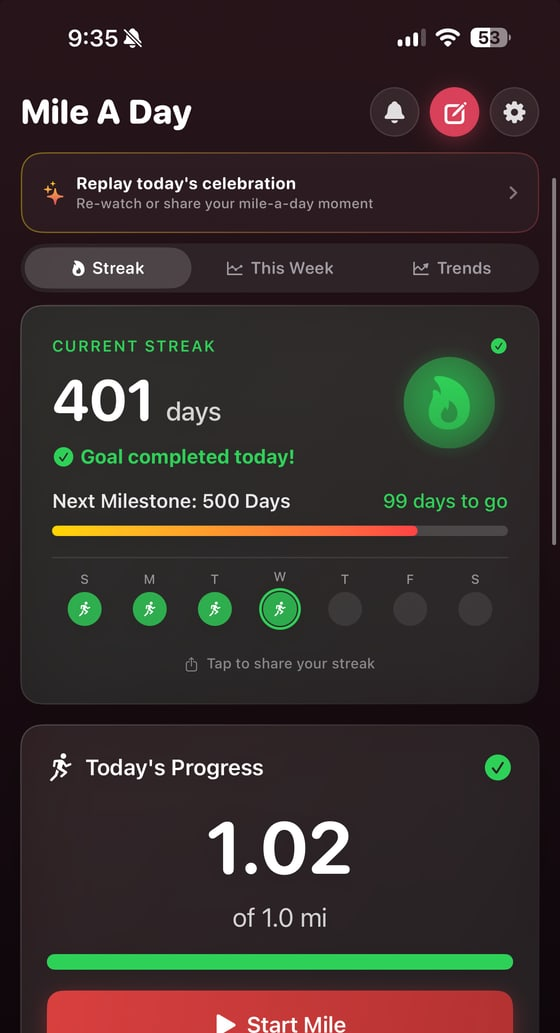
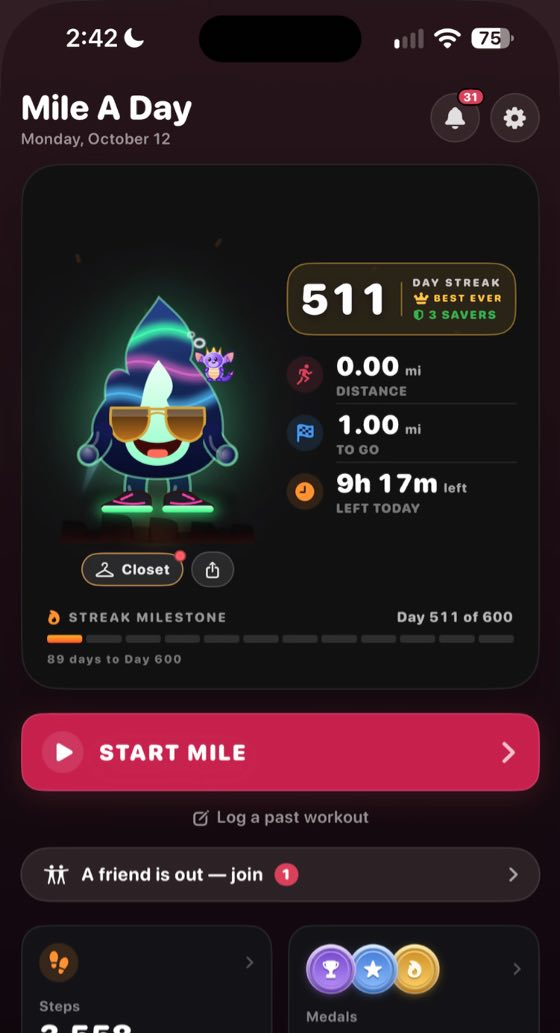
Website: real app screenshots for What's New and the hero
Captured from the live app via iPhone Mirroring (776×1680, the mirror's
largest window, cropped to the bare screen). Fills 10 What's New slots,
replaces the hero dashboard (now a 511-day streak) and regenerates the
link-preview crop app/_og/dashboard.jpg from it. Image dimensions in the
hero and What's New markup follow the new captures.

"Your Flamey, on your walks" shows friends' map-less walk cards with Flamey
cheering, so its caption/blurb now say that rather than promising Route Art.

diff --git a/website/lib/releases.ts b/website/lib/releases.ts
@@ -458,7 +458,7 @@ export type ReleaseShot = {
   caption: string;
   blurb: string;
   /**
-   * A REAL full-screen iPhone capture (1290×2796) in
+   * A REAL full-screen iPhone capture (776×1680, via iPhone Mirroring) in
    * public/images/whats-new/<version>/, or null until one is taken. A null
    * shot is never drawn — the feature just stays in the list — so the site
    * never shows a mock-up in place of the app.
@@ -471,31 +471,31 @@ export type ReleaseShot = {
 // three per release; capture them from the app on that version's screens.
 export const RELEASE_SHOWCASE: Record<string, ReleaseShot[]> = {
   "1.2.07": [
-    { title: "Flamey's Closet", caption: "Flamey's Closet", blurb: "Every medal unlocks something for Flamey to wear. Name him, dress him, save the outfits you love.", screenshot: null },
-    { title: "Your Flamey, on your walks", caption: "Your walks, drawn", blurb: "Route Art on the feed, Flamey running beside you, and a Flyover of the whole walk.", screenshot: null },
-    { title: "Weekly Recap", caption: "Weekly Recap", blurb: "Every Saturday evening: your miles, your best day, and how your friends did.", screenshot: null },
+    { title: "Flamey's Closet", caption: "Flamey's Closet", blurb: "Every medal unlocks something for Flamey to wear. Name him, dress him, save the outfits you love.", screenshot: "/images/whats-new/1.2.07/flameys-closet.png" },
+    { title: "Your Flamey, on your walks", caption: "Flamey on the feed", blurb: "Friends on Fun bring their Flamey along, cheering them over the line on every walk.", screenshot: "/images/whats-new/1.2.07/your-flamey-on-your-walks.png" },
+    { title: "Weekly Recap", caption: "Weekly Recap", blurb: "Every Saturday evening: your miles, your best day, and how your friends did.", screenshot: "/images/whats-new/1.2.07/weekly-recap.png" },
   ],
   "1.2.05": [
     { title: "Buddy Walks", caption: "Buddy Walks", blurb: "Walk together from anywhere, counting down to the same second.", screenshot: null },
     { title: "Route Art", caption: "Route Art", blurb: "Your route, drawn and colored by the time of day you went out.", screenshot: null },
-    { title: "Compete, rebuilt", caption: "Compete, rebuilt", blurb: "What's live, what you've won, and how every challenge was completed.", screenshot: null },
+    { title: "Compete, rebuilt", caption: "Compete, rebuilt", blurb: "What's live, what you've won, and how every challenge was completed.", screenshot: "/images/whats-new/1.2.05/compete-rebuilt.png" },
   ],
   "1.2.03": [
-    { title: "A brand-new Dashboard", caption: "A new Dashboard", blurb: "Your mile, your streak and your tokens in one view.", screenshot: null },
-    { title: "Streak Tokens", caption: "Streak Tokens", blurb: "Backup for the days life gets in the way.", screenshot: null },
+    { title: "A brand-new Dashboard", caption: "A new Dashboard", blurb: "Your mile, your streak and your tokens in one view.", screenshot: "/images/whats-new/1.2.03/a-brand-new-dashboard.png" },
+    { title: "Streak Tokens", caption: "Streak Tokens", blurb: "Backup for the days life gets in the way.", screenshot: "/images/whats-new/1.2.03/streak-tokens.png" },
     { title: "Comments, mentions & collabs", caption: "Comments & collabs", blurb: "Talk under a walk, tag a friend, post it together.", screenshot: null },
   ],
   "1.2.0": [
-    { title: "Feed & Stories", caption: "Feed & Stories", blurb: "See every friend's mile as it happens.", screenshot: null },
-    { title: "3D Medals", caption: "3D Medals", blurb: "Medals you can spin in your hand.", screenshot: null },
+    { title: "Feed & Stories", caption: "Feed & Stories", blurb: "See every friend's mile as it happens.", screenshot: "/images/whats-new/1.2.0/feed-and-stories.png" },
+    { title: "3D Medals", caption: "3D Medals", blurb: "Medals you can spin in your hand.", screenshot: "/images/whats-new/1.2.0/3d-medals.png" },
     { title: "Head-to-Head", caption: "Head-to-Head", blurb: "Take on one friend, mile for mile.", screenshot: null },
   ],
   "1.1.0": [
     { title: "Richer workout details", caption: "Workout details", blurb: "Splits, pace and heart rate for every mile.", screenshot: null },
-    { title: "Friends, organized", caption: "Friends, organized", blurb: "Requests, suggestions and friends in one place.", screenshot: null },
+    { title: "Friends, organized", caption: "Friends, organized", blurb: "Requests, suggestions and friends in one place.", screenshot: "/images/whats-new/1.1.0/friends-organized.png" },
   ],
   "1.0": [
     { title: "Daily mile streaks", caption: "Daily mile streaks", blurb: "One mile a day. Watch the streak grow.", screenshot: null },
-    { title: "Competitions", caption: "Competitions", blurb: "Race your friends in streaks, apex and more.", screenshot: null },
+    { title: "Competitions", caption: "Competitions", blurb: "Race your friends in streaks, apex and more.", screenshot: "/images/whats-new/1.0/competitions.png" },
   ],
 };

diff --git a/website/components/hero-section.tsx b/website/components/hero-section.tsx
@@ -85,9 +85,9 @@ export function HeroSection() {
           <div className="animate-float phone-mockup relative overflow-hidden p-3" style={{ width: 290 }}>
             <Image
               src="/images/app-dashboard.png"
-              alt="Mile A Day app dashboard showing a 288 day streak"
-              width={580}
-              height={1200}
+              alt="Mile A Day app dashboard showing a 511 day streak"
+              width={776}
+              height={1680}
               sizes="(max-width: 768px) 260px, 290px"
               className="w-full rounded-[32px]"
               priority

diff --git a/website/components/whats-new-section.tsx b/website/components/whats-new-section.tsx
@@ -70,8 +70,8 @@ export function WhatsNewSection() {
                   <Image
                     src={shot.screenshot!}
                     alt={`${shot.caption} in the Mile A Day app`}
-                    width={1290}
-                    height={2796}
+                    width={776}
+                    height={1680}
                     sizes="280px"
                     className="w-full rounded-[30px]"
                   />
